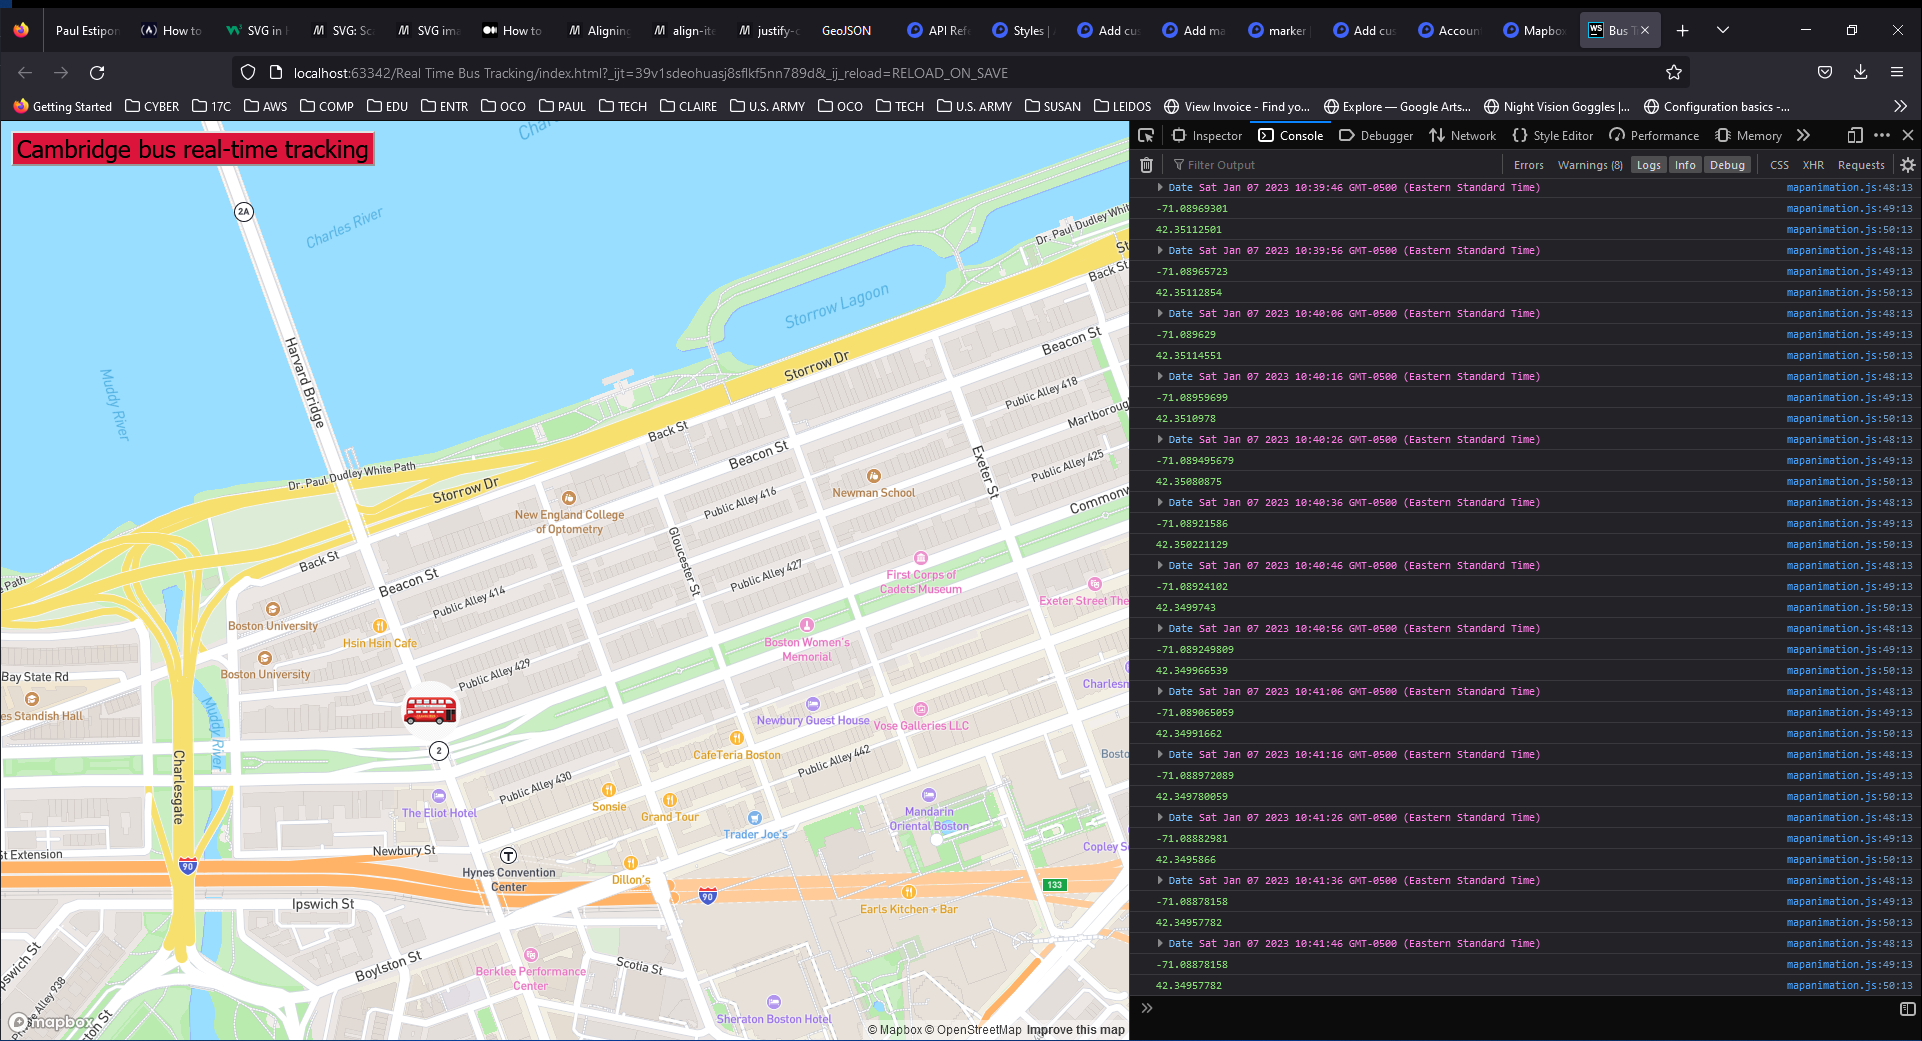
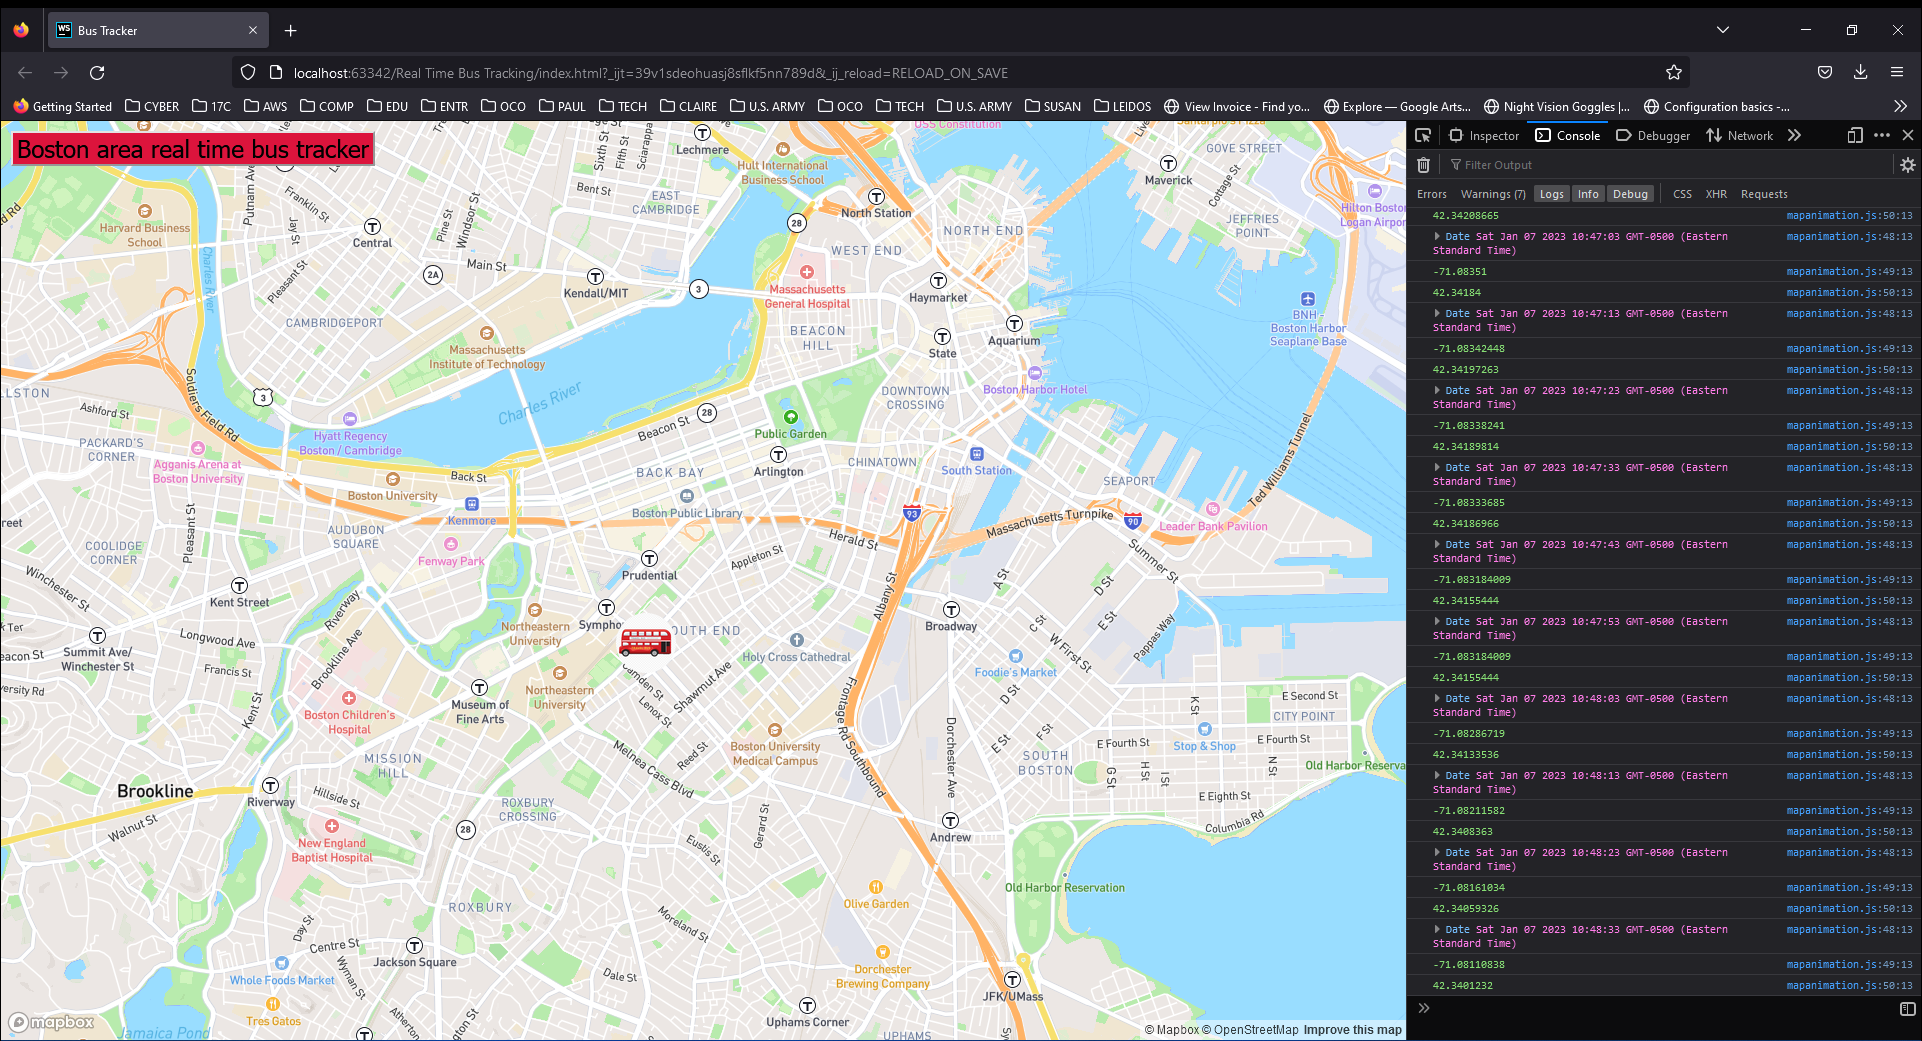
Edited ReadME in GitHub

diff --git a/index.html b/index.html
@@ -16,7 +16,7 @@
     <div id="map"></div>
     <div class="map-overlay top">
         <button style="font-size: 1.5em" onclick="move()">
-            Cambridge bus real-time tracking
+            Boston area real time bus tracker
         </button>
     </div>
     <script src="mapanimation.js"></script>

diff --git a/README.md b/README.md
@@ -1,6 +1,11 @@
-# Real Time Bus Tracking:
+# Real Time Bus Tracker:
 
 ![](ScreenShots/01_ScreenShot.png)
+
+## I. Project Description:
+
+This project demonstrates many concepts covered in **asynchronous programming**. The **web application** tracks the **real-time bus location** of one of the bus routes of The Massachusetts Bay Transportation Authority (MBTA) in the Boston area. 
+
 
 * a navbar with drop down menus for options
 * make the marker icon rotate to the direction of travel
